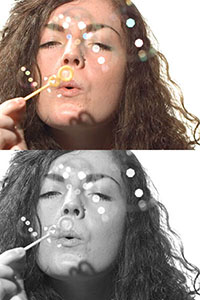
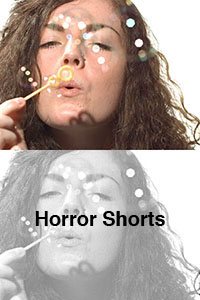
Changed thumbnails.

diff --git a/index.html b/index.html
@@ -6,36 +6,28 @@ layout: default
 		<ul>
 			<li id="farlefttop" class="image">
 				<a href="photography.html" alt="Photography: Space" class="cssmouseover" style="background-image: url('/images/photography/thumb.jpg');"></a>
-				<span>Photography</span>
 				</a>
 			</li>
 			<li id="lefttop" class="image">
 				<a href="courier.html" alt="Courier" class="cssmouseover" style="background-image: url('/images/courier/thumb.jpg');"></a>
-				<span>Courier</span>
 			</li>
 			<li id="righttop" class="image">
 				<a href="type3.html" alt="Statistics" class="cssmouseover" style="background-image: url('/images/type3/thumb.jpg');"></a>
-				<span>Typography: Statistics</span>
 			</li>
 			<li id="farrighttop" class="image">
 				<a href="sip3.html" alt="Food Waste" class="cssmouseover" style="background-image: url('/images/sip/thumb.jpg');"></a>
-				<span>Food Waste</span>
 			</li>
 			<li id="farleftbottom" class="image">
 				<a href="visualnarrative.html" alt="Visual Narrative" class="cssmouseover" style="background-image: url('/images/visual_narrative/thumb.jpg');"></a>
-				<span>Visual Narrative</span>
 			</li>
 			<li id="leftbottom" class="image">
 				<a href="horrorshorts.html" alt="Statistics" class="cssmouseover" style="background-image: url('/images/horrorshorts/thumb.jpg');"></a>
-				<span>Horror Shorts</span>
 			</li>
 			<li id="rightbottom" class="image">
 				<a href="longlivetheposter.html" alt="Long Live The Poster!" class="cssmouseover" style="background-image: url('/images/longlivetheposter/thumb.jpg');"></a>
-				<span>Long Live The Poster!</span>
 			</li>
 			<li id="farrightbottom" class="image">
 				<a href="amnesty.html" alt="Amnesty Fundraising" class="cssmouseover" style="background-image: url('/images/amnesty/thumb.jpg');"></a>
-				<span>Amnesty Fundraising</span>
 			</li>
 		</ul>
 	</div>

diff --git a/css/styles.css b/css/styles.css
@@ -114,7 +114,7 @@ a.cssmouseover:hover {
 	font-family: Verdana, Helvetica, Arial, sans-serif;
 	font-color: black;
 	font-size: 13pt;
-	text-shadow: 0.5px 1px 1px black;
+	text-shadow: 0.5px 1px 0.5px black;
 }
 
 .left-align {
